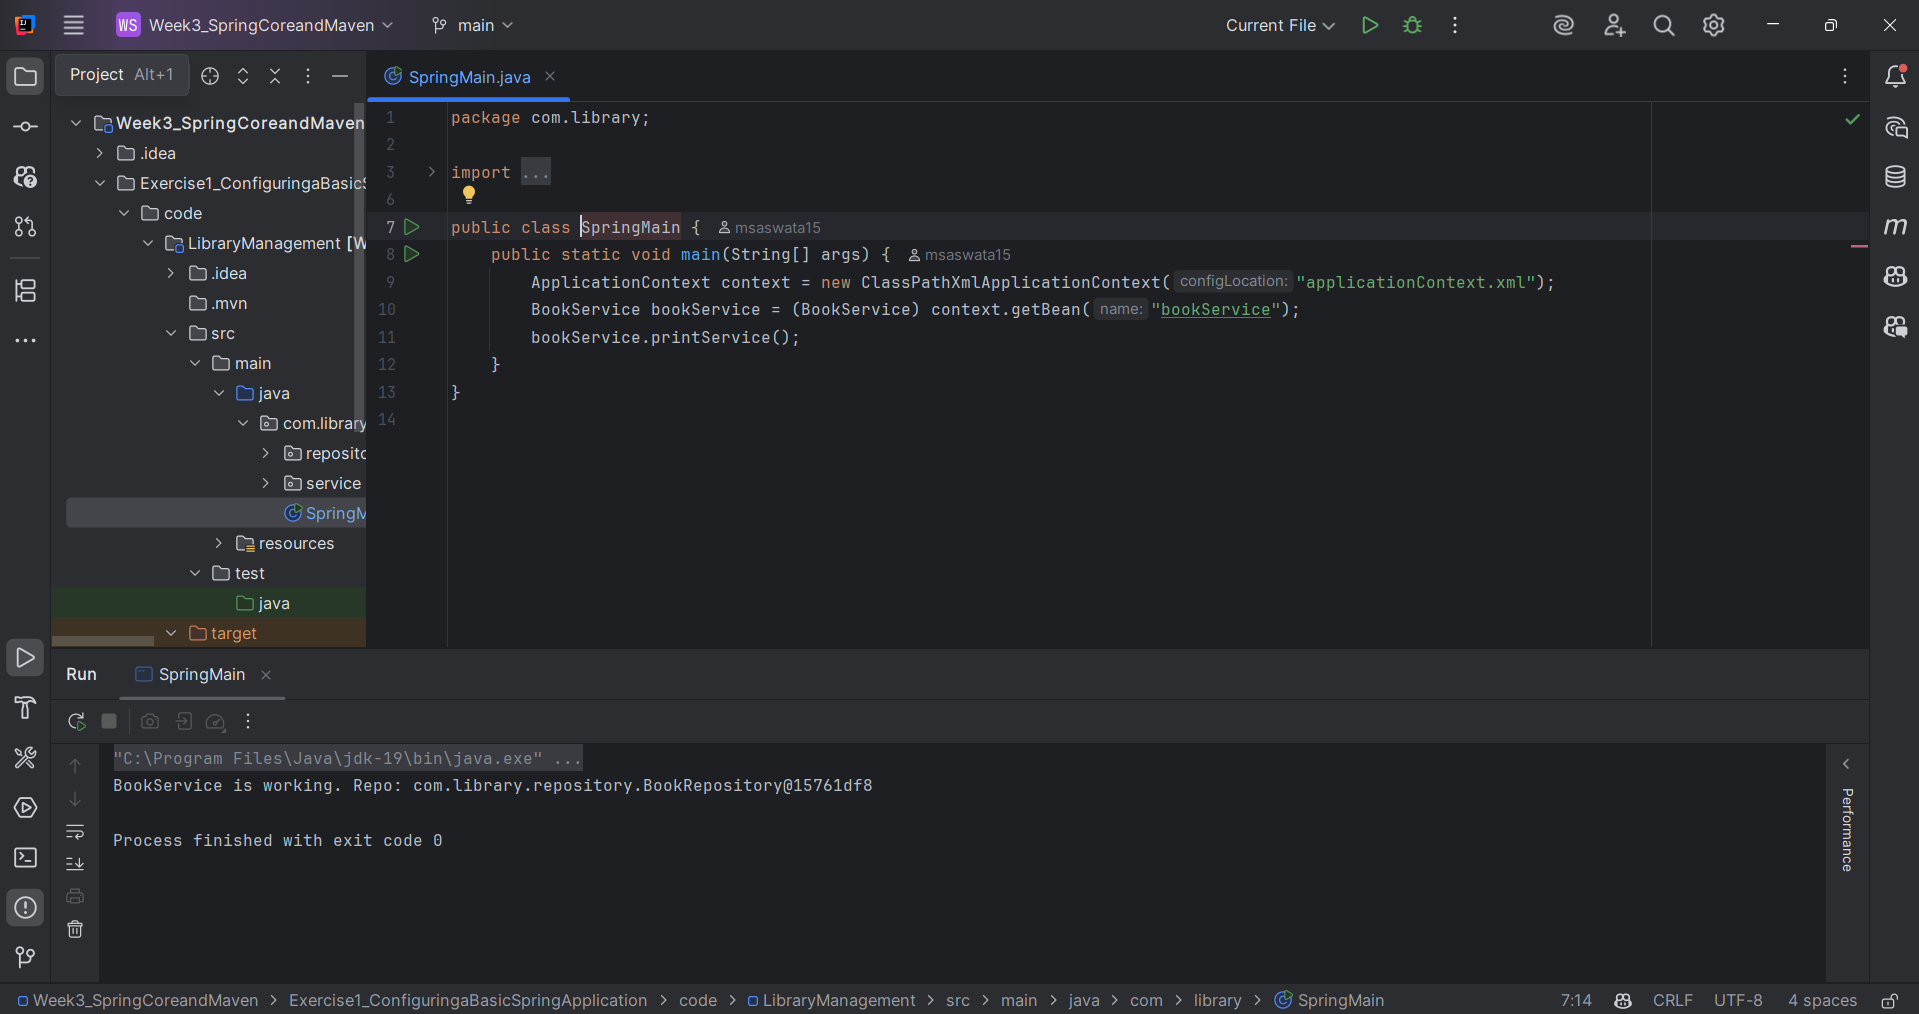
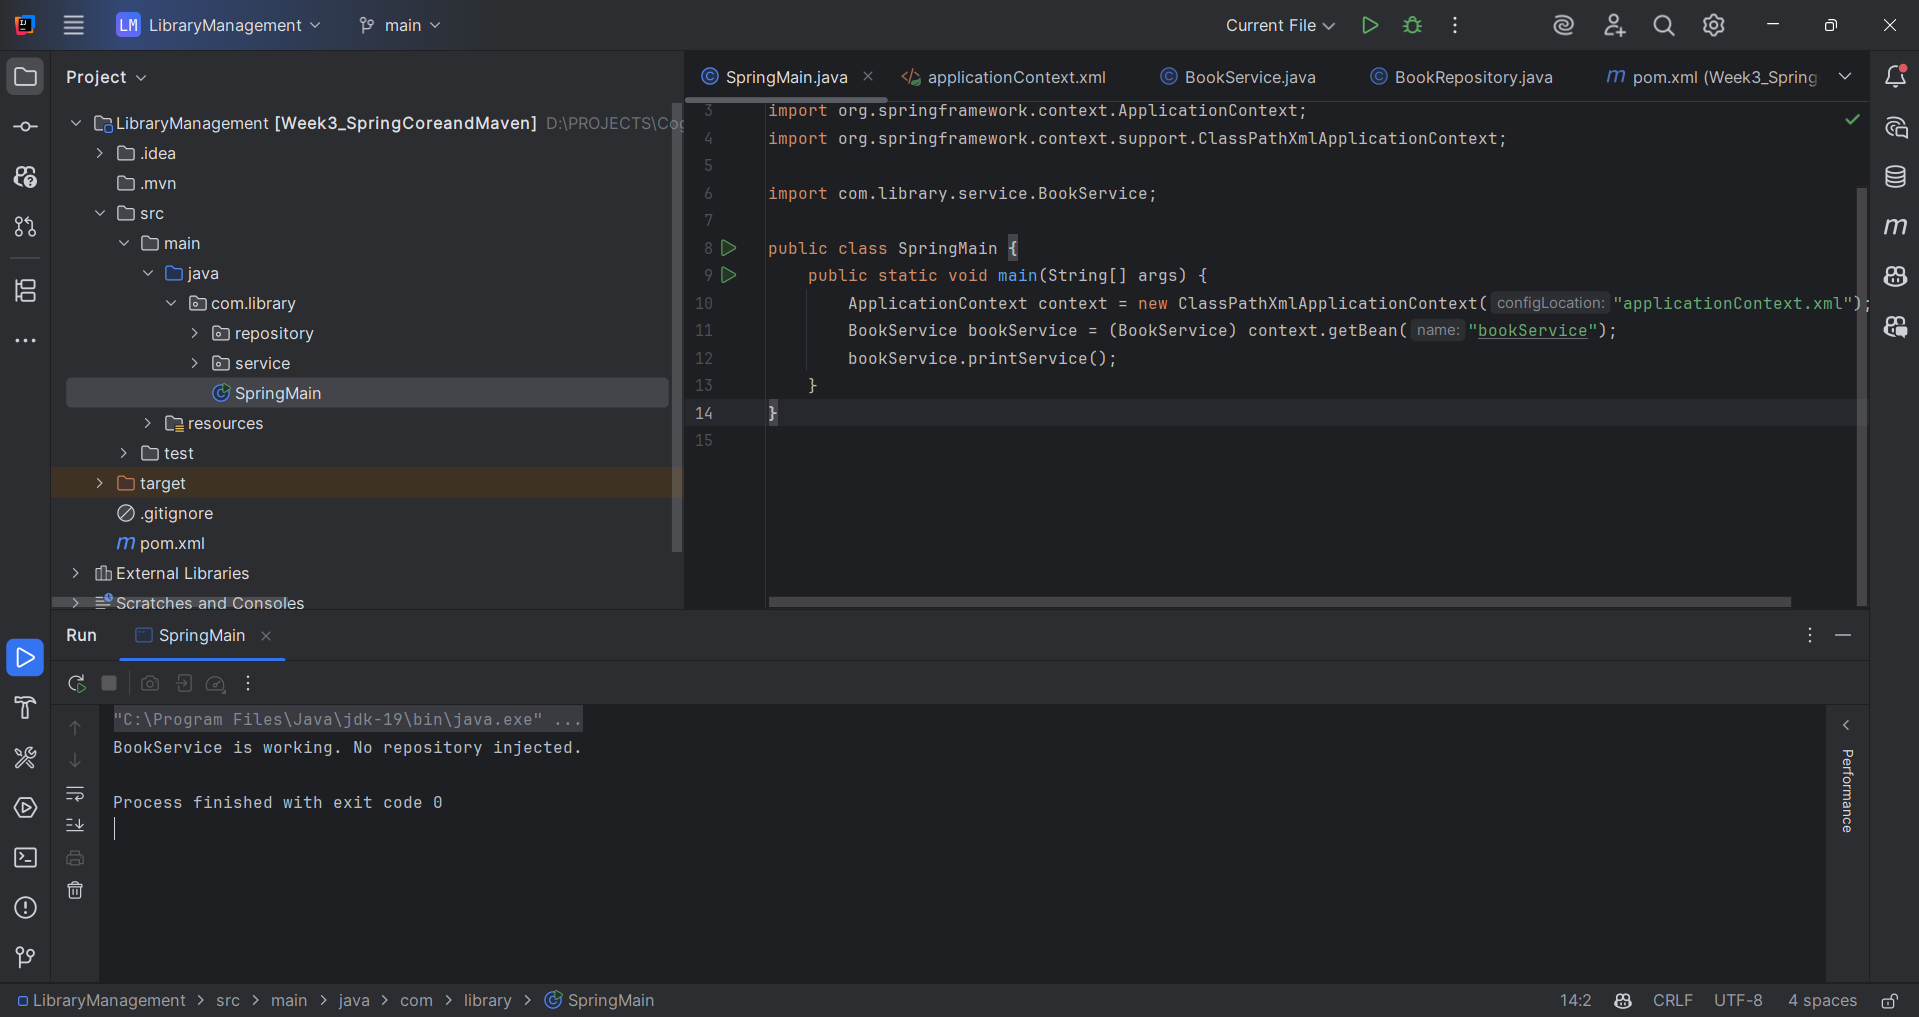
ex2

diff --git a/Week3_SpringCoreandMaven/Exercise1_ConfiguringaBasicSpringApplication/code/LibraryManagement/src/main/java/com/library/service/BookService.java b/Week3_SpringCoreandMaven/Exercise1_ConfiguringaBasicSpringApplication/code/LibraryManagement/src/main/java/com/library/service/BookService.java
@@ -1,15 +1,7 @@
 package com.library.service;
 
-import com.library.repository.BookRepository;
-
 public class BookService {
-    private BookRepository bookRepository;
-
-    public void setBookRepository(BookRepository bookRepository) {
-        this.bookRepository = bookRepository;
-    }
-
     public void printService() {
-        System.out.println("BookService is working. Repo: " + bookRepository);
+        System.out.println("BookService is working. No repository injected.");
     }
 }

diff --git a/Week3_SpringCoreandMaven/Exercise2_ImplementingDependencyInjection/code/LibraryManagement/src/main/java/com/library/service/BookService.java b/Week3_SpringCoreandMaven/Exercise2_ImplementingDependencyInjection/code/LibraryManagement/src/main/java/com/library/service/BookService.java
@@ -1,0 +1,15 @@
+package com.library.service;
+
+import com.library.repository.BookRepository;
+
+public class BookService {
+    private BookRepository bookRepository;
+
+    public void setBookRepository(BookRepository bookRepository) {
+        this.bookRepository = bookRepository;
+    }
+
+    public void printService() {
+        System.out.println("BookService is working. Repo: " + bookRepository);
+    }
+}

diff --git a/Week3_SpringCoreandMaven/Exercise2_ImplementingDependencyInjection/code/LibraryManagement/src/main/java/com/library/SpringMain.java b/Week3_SpringCoreandMaven/Exercise2_ImplementingDependencyInjection/code/LibraryManagement/src/main/java/com/library/SpringMain.java
@@ -1,9 +1,8 @@
 package com.library;
 
+import com.library.service.BookService;
 import org.springframework.context.ApplicationContext;
 import org.springframework.context.support.ClassPathXmlApplicationContext;
-
-import com.library.service.BookService;
 
 public class SpringMain {
     public static void main(String[] args) {

diff --git a/Week3_SpringCoreandMaven/Exercise2_ImplementingDependencyInjection/code/LibraryManagement/src/main/java/com/library/repository/BookRepository.java b/Week3_SpringCoreandMaven/Exercise2_ImplementingDependencyInjection/code/LibraryManagement/src/main/java/com/library/repository/BookRepository.java
@@ -1,0 +1,7 @@
+package com.library.repository;
+
+public class BookRepository {
+    public void printRepository() {
+        System.out.println("BookRepository is working.");
+    }
+}
